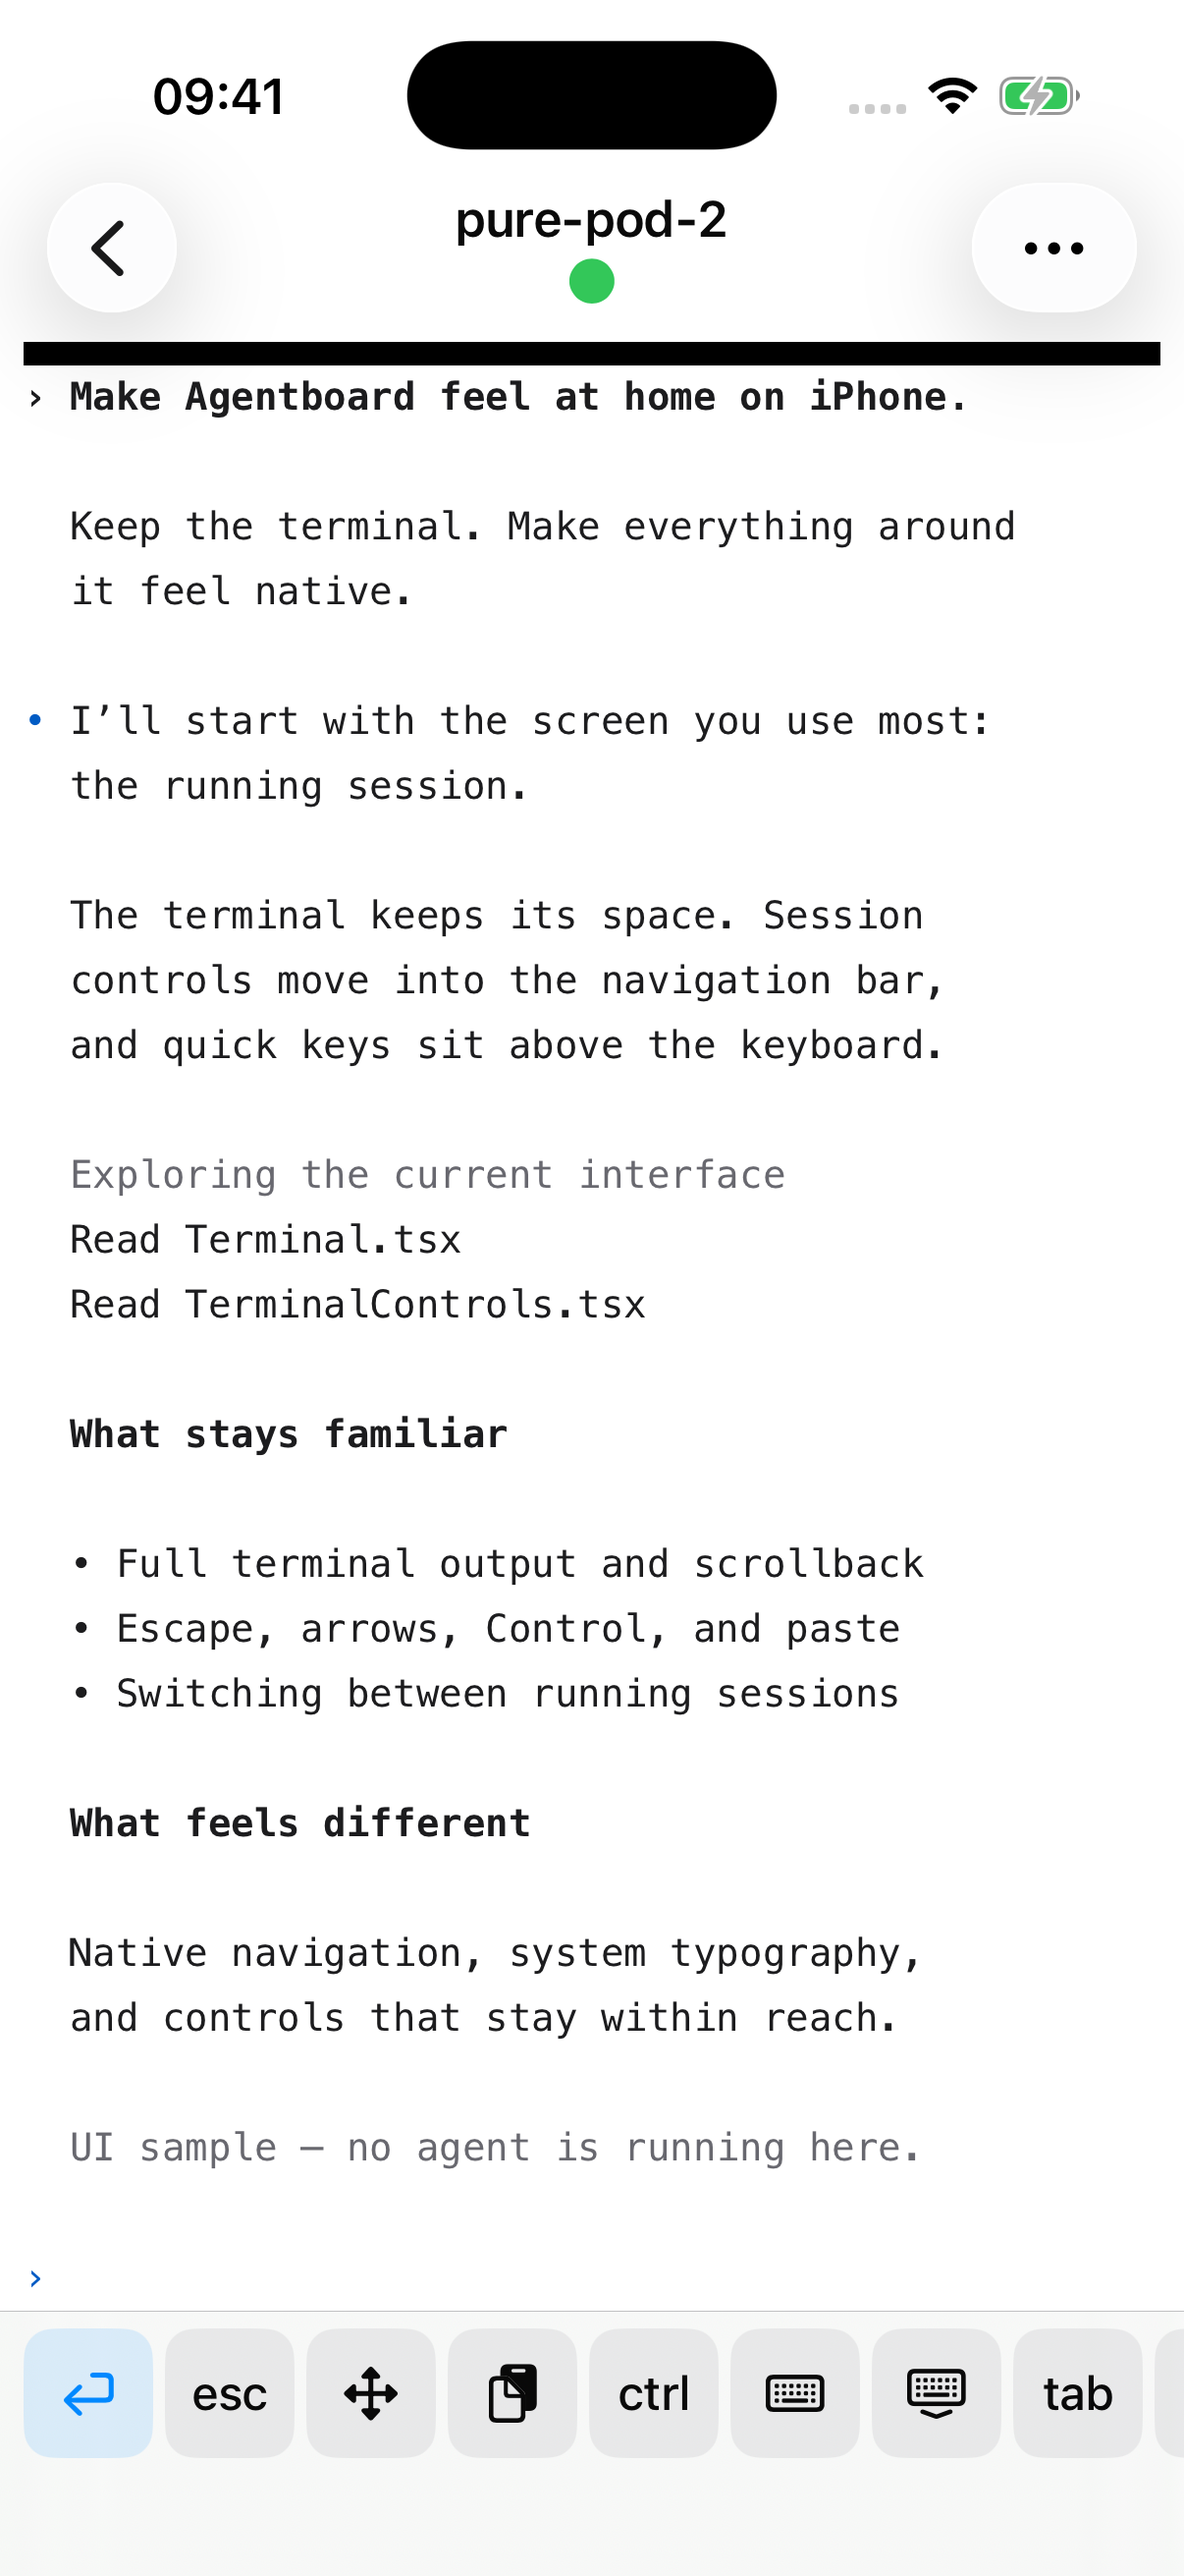
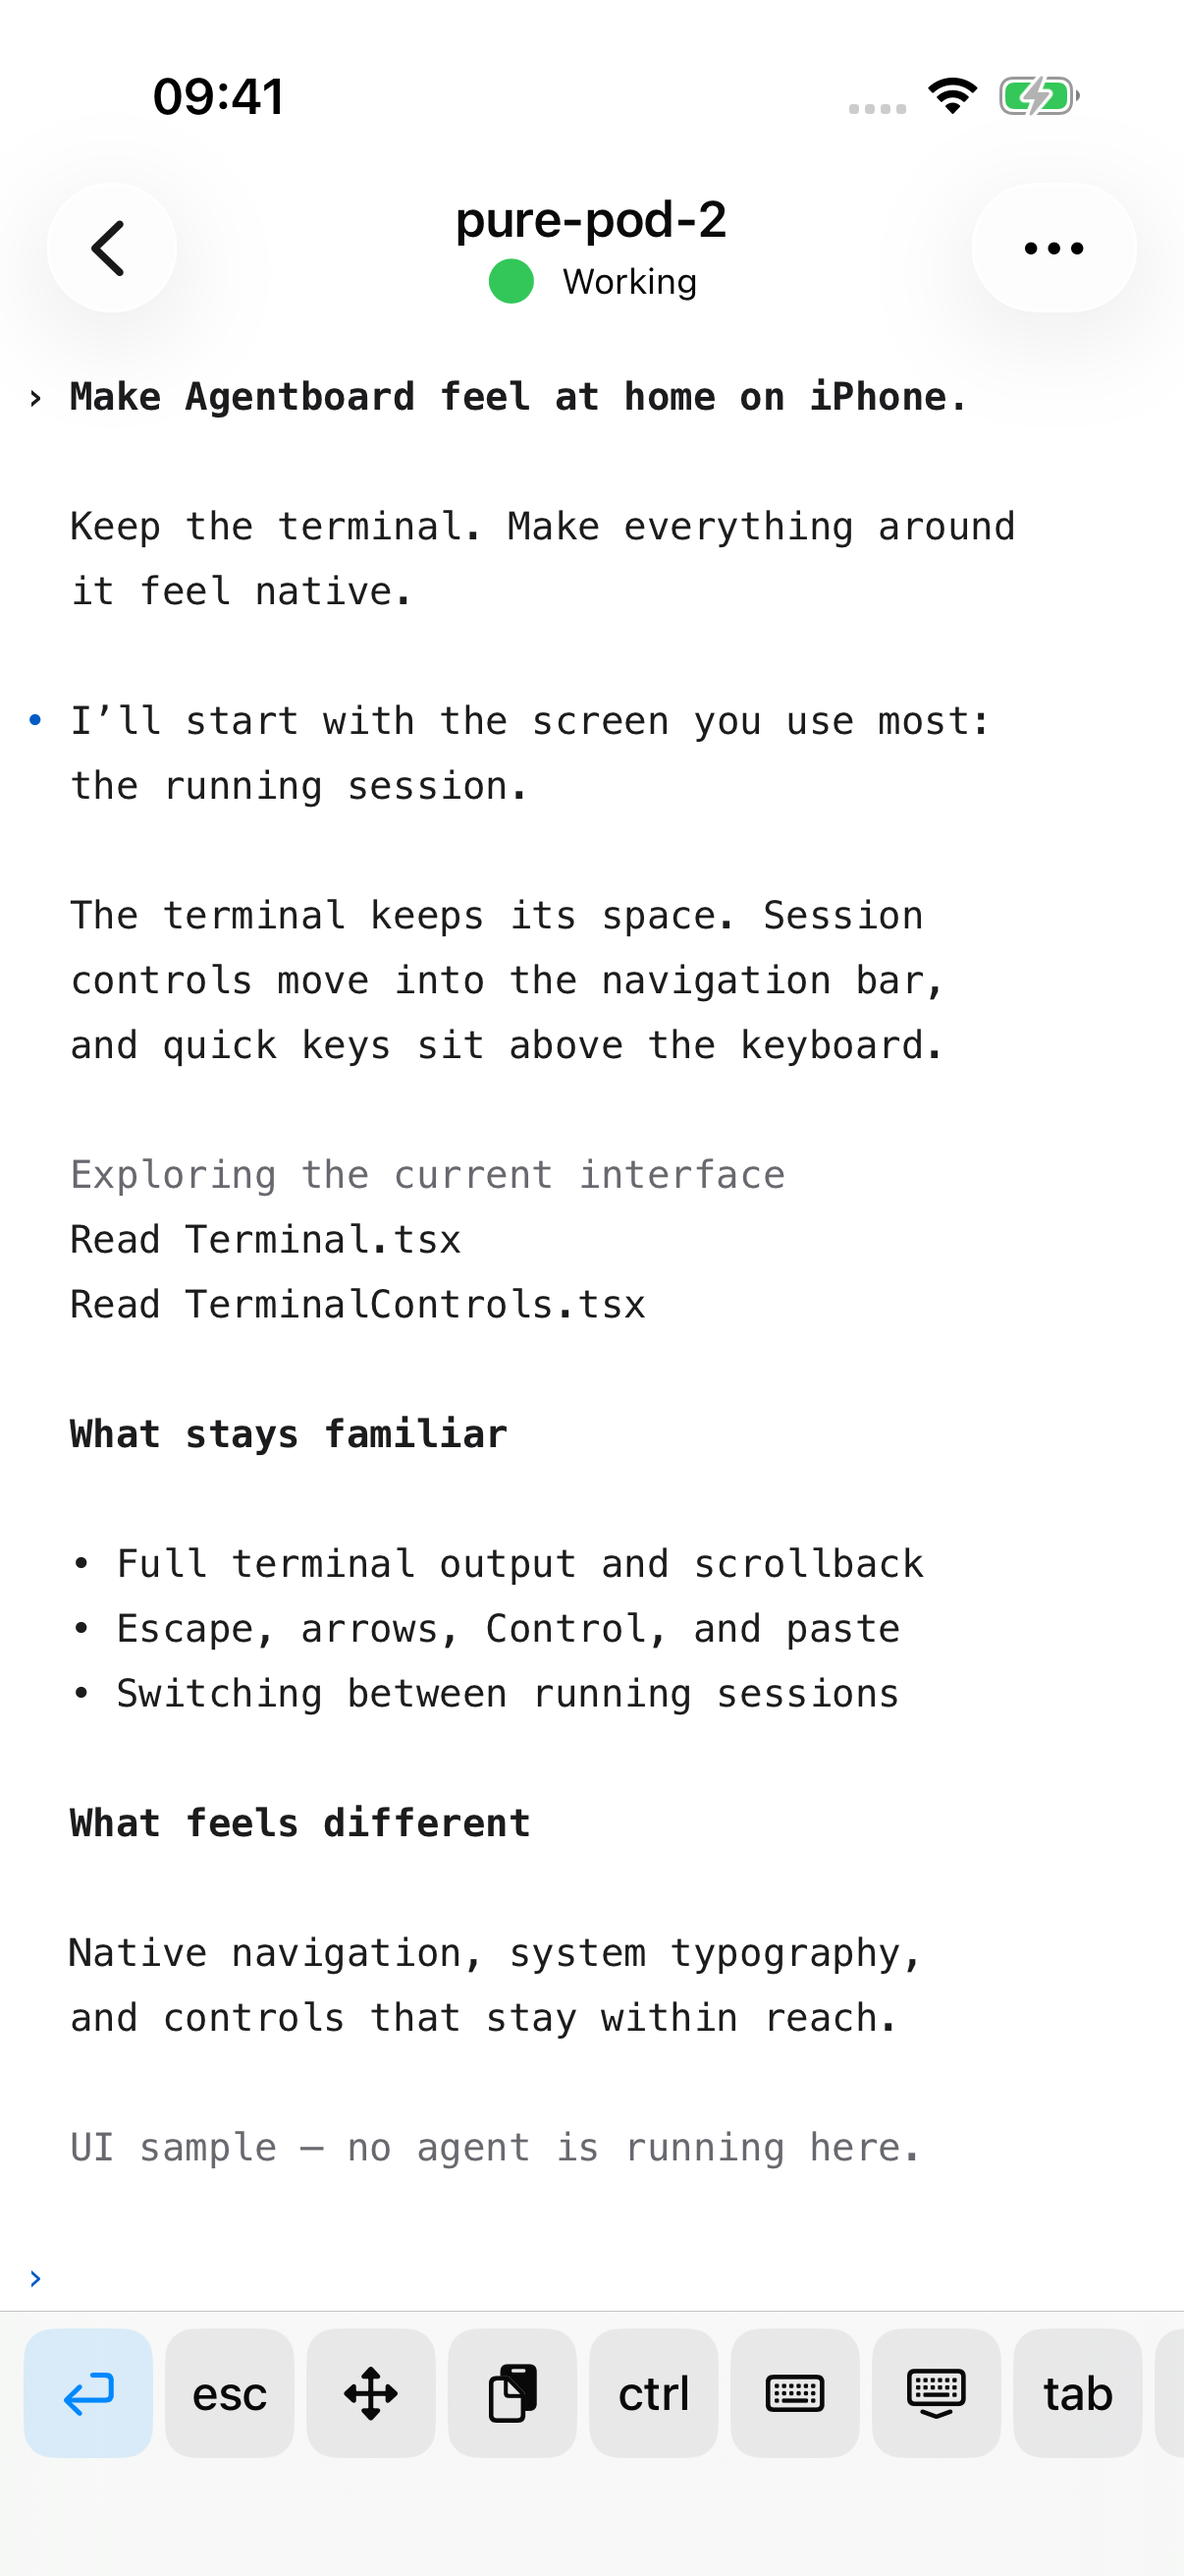
fix: improve native status contrast and document simulator spike

Changed region(s): [[0.0, 0.0927, 0.9818, 0.1545], [0.3375, 0.0, 0.675, 0.0618]]

diff --git a/ios/AgentboardSpike/Session.swift b/ios/AgentboardSpike/Session.swift
@@ -41,9 +41,10 @@ struct BoardSession: Identifiable, Hashable {
 struct SessionStatus: View {
     let status: BoardSession.Status
     var body: some View {
-        Label(status.rawValue, systemImage: status.symbol)
-            .labelStyle(.titleAndIcon)
-            .font(.caption)
-            .foregroundStyle(status.color)
+        Label { Text(status.rawValue).foregroundStyle(.primary) } icon: {
+            Image(systemName: status.symbol).foregroundStyle(status.color)
+        }
+        .labelStyle(.titleAndIcon)
+        .font(.caption)
     }
 }

diff --git a/ios/DESIGN.md b/ios/DESIGN.md
@@ -1,0 +1,90 @@
+---
+name: Agentboard iPhone spike
+description: A native iPhone window onto working agents.
+colors:
+  terminal-background-light: "#ffffff"
+  terminal-background-dark: "#000000"
+  terminal-text-light: "#1c1c1e"
+  terminal-text-dark: "#e5e5ea"
+  terminal-cursor: "#007aff"
+  terminal-selection-light: "#c6dfff"
+  terminal-selection-dark: "#264b76"
+  terminal-blue-light: "#005bc4"
+  terminal-blue-dark: "#64aaff"
+  terminal-green-light: "#16783a"
+  terminal-green-dark: "#63d98a"
+  terminal-yellow-light: "#865800"
+  terminal-yellow-dark: "#ffce64"
+  terminal-muted-light: "#68686f"
+  terminal-muted-dark: "#a0a0a7"
+typography:
+  terminal:
+    fontFamily: "Menlo, monospace"
+    fontSize: "13px"
+    lineHeight: 1.3
+rounded:
+  terminal-key: "10px"
+---
+
+# Design System: Agentboard iPhone spike
+
+## Overview
+
+**Creative North Star: "A native iPhone window onto working agents"**
+
+Use the user-approved Apple-native direction: San Francisco, semantic iOS surfaces, system blue actions, SF Symbols, native navigation and sheets. The terminal owns the detail screen. This documents the isolated SwiftUI visual spike, not a redesign of the web app or a final framework decision.
+
+**Key Characteristics:**
+- Native controls and system typography.
+- Dense terminal content with compact surrounding controls.
+- Adaptive light and dark appearance.
+
+## Colors
+
+Native colors remain semantic SwiftUI/UIKit values, not frozen hex approximations. `Color.accentColor` supplies system action tint. `.primary` is the foreground for session names and status text; `.secondary` is for summaries, agent names and secondary information. Status symbols use `.green` for Working, `.orange` for Waiting and `.secondary` for Sleeping. Each status also has text and a distinct SF Symbol.
+
+Terminal surfaces use `.systemBackground`. Quick keys use `.tertiarySystemFill`; Enter and armed Control use accent text over accent fill at 12% opacity. The strip uses `.bar` material and a system divider. Validation errors use `.red`; destructive actions use the native destructive role.
+
+The frontmatter records the explicit xterm light/dark palette only. It does not replace native adaptive colors. Unspecified ANSI slots retain xterm defaults.
+
+## Typography
+
+Native text uses system San Francisco with SwiftUI semantic styles and Dynamic Type. Session names use `.headline`, summaries `.subheadline`, agent and status labels `.caption`, and terminal keys `.callout.weight(.medium)`. Do not hard-code point sizes for these roles.
+
+System large titles belong only on the session list. Terminal detail and sheet navigation titles are inline. The detail principal item combines a one-line headline and caption status with 2-point spacing. Monospaced text belongs inside xterm, using the frontmatter terminal role. Its explicit size controls range from 11 to 22 CSS pixels; terminal text does not inherit native Dynamic Type.
+
+## Layout
+
+`NavigationStack` contains a system `List` with project and Sleeping sections, native search and navigation links. Native row insets remain system-owned. Each row uses a leading vertical stack with 7-point spacing and 5-point vertical padding; the title/status spacer has an 8-point minimum. Summaries wrap to two lines.
+
+The detail terminal fills available space with 8-point horizontal native padding and 8 CSS pixels of top inset inside the web view. A bottom `safeAreaInset` holds the horizontal quick-key strip, following the software keyboard. Keys have minimum 44-by-44-point targets, 4-point gaps, 8-point horizontal strip padding and 6-point vertical strip padding. The strip scrolls horizontally when necessary.
+
+## Elevation & Depth
+
+Use native navigation, sheet and popover presentation. The keyboard strip's bar material and divider separate controls from content. There are no custom shadows or custom animation curves. Preserve system transitions and accessibility behavior.
+
+## Shapes
+
+Quick keys use a rounded rectangle with a 10-point radius. List groups, forms, sheets, alerts and menus retain native system shapes. Do not copy their current OS geometry into custom containers.
+
+## Components
+
+- **Session row:** native navigation link; name, status, two-line summary and agent label. Status text stays primary for contrast, with color confined to its symbol.
+- **Navigation:** Sessions uses system large-title behavior, search, Connection and New session actions. Detail uses native back navigation, a compact name/status title and a session-actions menu.
+- **Quick keys:** Enter, Escape, arrows, Paste, Control, keyboard show/hide, Tab, Delete word and Interrupt. Control highlights while armed and clears after a single-character input. Arrows open a native popover; keys retain accessible labels.
+- **Connection:** native Form and URL keyboard within a medium/large sheet. Invalid URLs show text and disable Save.
+- **Paste:** native TextEditor in a medium/large sheet; Insert is disabled while empty. Rename/create use alerts; ending a sample uses a destructive confirmation dialog.
+- **Terminal:** WKWebView hosts xterm, follows appearance and refits to available space. Connection state lives in the actions menu.
+
+The spike intentionally retains WKWebView's system previous/next/Done accessory above the software keyboard, in addition to the custom quick-key strip. This costs a second row. A future input-proxy experiment may address it through public APIs; this design does not claim the limitation is resolved.
+
+## Do's and Don'ts
+
+- Do preserve native semantic colors, typography and presentation.
+- Do keep status text primary and pair its colored symbol with a written label.
+- Do keep terminal controls reachable with minimum 44-point targets.
+- Don't introduce large titles on terminal detail or duplicate dashboard cards.
+- Don't treat terminal pixel sizes as native text-style tokens.
+- Don't remove keyboard accessories through private class swizzling.
+
+Source of truth: `AgentboardSpike/*.swift` and `AgentboardSpike/Web/terminal.html`. Evidence lives in `evidence/`; older captures may precede the primary-status-text correction. Consult the source when those captures disagree.

diff --git a/ios/README.md b/ios/README.md
@@ -1,0 +1,84 @@
+# Agentboard iPhone UI spike
+
+SwiftUI navigation, session list, menus, connection sheet, and terminal keys around bundled xterm.js. Session data and management actions are local samples. The optional shell fixture provides a real PTY. It does not attach to tmux or live agents. This is a design experiment, not the production iOS client.
+
+## Build
+
+Use Xcode 26 and XcodeGen. Install the root Bun dependencies first.
+
+```sh
+./ios/scripts/prepare.sh
+xcodebuild -project ios/AgentboardSpike.xcodeproj -scheme AgentboardSpike \
+  -destination 'platform=iOS Simulator,id=YOUR_UDID' \
+  -derivedDataPath ios/.build build
+xcrun simctl install YOUR_UDID ios/.build/Build/Products/Debug-iphonesimulator/AgentboardSpike.app
+xcrun simctl launch YOUR_UDID dev.agentboard.ios-spike
+```
+
+The prepare script copies xterm and its licenses from the locked root dependencies. Generated vendor files and the Xcode project are ignored. Keep the bundled folder named `Web`: a top-level `Resources` folder makes macOS bundle discovery treat this iOS app as a different bundle layout and fail installation with “Missing bundle ID.”
+
+## Try terminal input
+
+Start the fixture on the simulator host:
+
+```sh
+bun ios/scripts/shell-server.ts
+```
+
+Open Connection in the app. Set `ws://127.0.0.1:4149`. Open a sample session. Each connection starts a disposable zsh shell in `/tmp`. Reconnect starts a new shell. The fixture binds only to loopback and uses an explicit environment without `TMUX`.
+
+For a remote simulator, forward its loopback port to the fixture host:
+
+```sh
+ssh -N -o ExitOnForwardFailure=yes -R 4149:127.0.0.1:4149 macbook-m5p.local
+```
+
+Do not enter a production Agentboard WebSocket address. This fixture uses its own small protocol. Production attachment, authentication, Tailscale onboarding, and durable session recovery are future work.
+
+## Test
+
+Run the fixture before the UI tests.
+
+```sh
+xcodebuild -project ios/AgentboardSpike.xcodeproj -scheme AgentboardSpike \
+  -destination 'platform=iOS Simulator,id=YOUR_UDID' \
+  -derivedDataPath ios/.build test
+```
+
+The UI tests cover session navigation, software keyboard opening, the arrow popover, and native Enter sending a command to the real shell. The shell assertion checks output that does not appear verbatim in the command. Screenshots are XCTest attachments.
+
+## Verified environment
+
+- m5p, Xcode 26.4, iPhone 17 Pro simulator on iOS 26.4.
+- Simulator ID: `94EEE322-8231-4D09-8904-5DE3EFAE934B`.
+- Remote build copy: `/Users/garybasin/code/agentboard-ios-ui-spike/ios`.
+- Light/dark terminal and XXXL Dynamic Type session list captured in `evidence/`.
+- Two XCTest UI tests passed. Real PTY input also verified through dev-browser.
+- Root lint/typecheck passed; the full test runner passed with `LOG_LEVEL` unset (1,859 Bun tests plus the Node installer checks). Inherited `LOG_LEVEL=debug` causes the existing logger default-level test to fail.
+
+## Findings and limits
+
+The native hierarchy fits the terminal workflow. Status labels use primary text and colored symbols for light-mode contrast. The quick-key strip follows the software keyboard and has 44-point minimum targets.
+
+WKWebView retains its system previous/next/Done accessory. This costs a second row above the keyboard. Evaluate a public-API native input proxy or another terminal implementation in the next spike; do not use private class swizzling. Show/hide keyboard controls can also be consolidated.
+
+This spike does not establish physical-device behavior, production reconnect correctness, selection/IME parity, media handling, or performance. Tailscale is the agreed v1 transport, not an implemented onboarding flow here. SwiftUI versus React Native remains open.
+
+## Hot reload
+
+Verified with Inject 1.6.0 and InjectionNext 2.0.1 on m5p. A `TerminalScreen` title edit compiled in 280 ms and rebound nine symbols. The app kept PID 37100 and its terminal contents. `evidence/hot-reloaded.png` records the temporary “· live” suffix; the source was restored afterward. This is one measured edit, not an all-changes timing guarantee.
+
+Download InjectionNext from its [releases](https://github.com/johnno1962/InjectionNext/releases). Start the app on the simulator host. Use its file-watcher mode. Do not enable compiler interception. If restarting it, wait for the old process to exit before opening the next instance; overlapping restarts left its listener unusable during this spike.
+
+```sh
+./ios/scripts/prepare.sh
+INJECTION_RESOURCES=/path/to/InjectionNext.app/Contents/Resources \
+  ./ios/scripts/build.sh YOUR_UDID
+xcrun simctl install YOUR_UDID ios/.build/Build/Products/Debug-iphonesimulator/AgentboardSpike.app
+SIMCTL_CHILD_INJECTION_PROJECT_ROOT="$PWD/ios" \
+  xcrun simctl launch --console-pty YOUR_UDID dev.agentboard.ios-spike -terminal
+```
+
+The project enables interposable symbols and Inject view observation. The build script records actual compiler commands as a gzip log that InjectionNext can scan. This adapter was necessary because this machine's CLI activity logs omitted the frontend commands even with `EMIT_FRONTEND_COMMAND_LINES=YES`. Set `INJECTION_RESOURCES` only for Debug development; Release builds do not copy the injection bundle.
+
+Edit the Swift source on the simulator host, or sync your local edit there. Compatible view-body edits update the running app. Changes to stored properties and signatures still need rebuilding. Bundled HTML changes also require recopying/rebuilding; they do not use Swift injection.

diff --git a/ios/evidence/README.md b/ios/evidence/README.md
@@ -1,0 +1,24 @@
+# Simulator evidence
+
+Captured on m5p with Xcode 26.4, iOS 26.4, iPhone 17 Pro simulator (94EEE322-8231-4D09-8904-5DE3EFAE934B). Images are screenshots of the built app, not generated mockups. Session names, summaries, and transcript copy are illustrative samples.
+
+- `sessions-light.png`: native session list.
+- `terminal-light.png`, `terminal-dark.png`: xterm with native navigation and quick keys.
+- `terminal-keyboard.png`: software keyboard and accessory strip.
+- `terminal-arrows.png`: native directional-key popover.
+- `sessions-large-dark.png`: XXXL Dynamic Type list.
+- `live-shell.png`, `live-shell-keyboard.png`: real isolated shell output after native typing and Enter.
+- `hot-reloaded.png`: temporary title suffix injected without relaunch. PID remained 37100. The suffix is not in final source.
+
+Hot-reload console evidence:
+
+```text
+InjectionNext: arm64 iPhoneSimulator connected to app, waiting for commands.
+[TerminalScreen.swift] Recompiling (SDKs/iPhoneSimulator)
+Compiled in 280ms
+Hot reload complete - Rebound 9 symbols, classes []
+```
+
+The initial review identified insufficient contrast in colored status text. The final implementation keeps semantic primary text and colors only the adjacent symbol. A separate finish review covers the recaptured affected screens.
+
+Final finish-review verdict: ship the visual spike. The reviewer rechecked all eight refreshed screenshots and marked the sole material contrast finding resolved. This verdict does not cover production parity, Tailscale connectivity, or physical-device usability.
